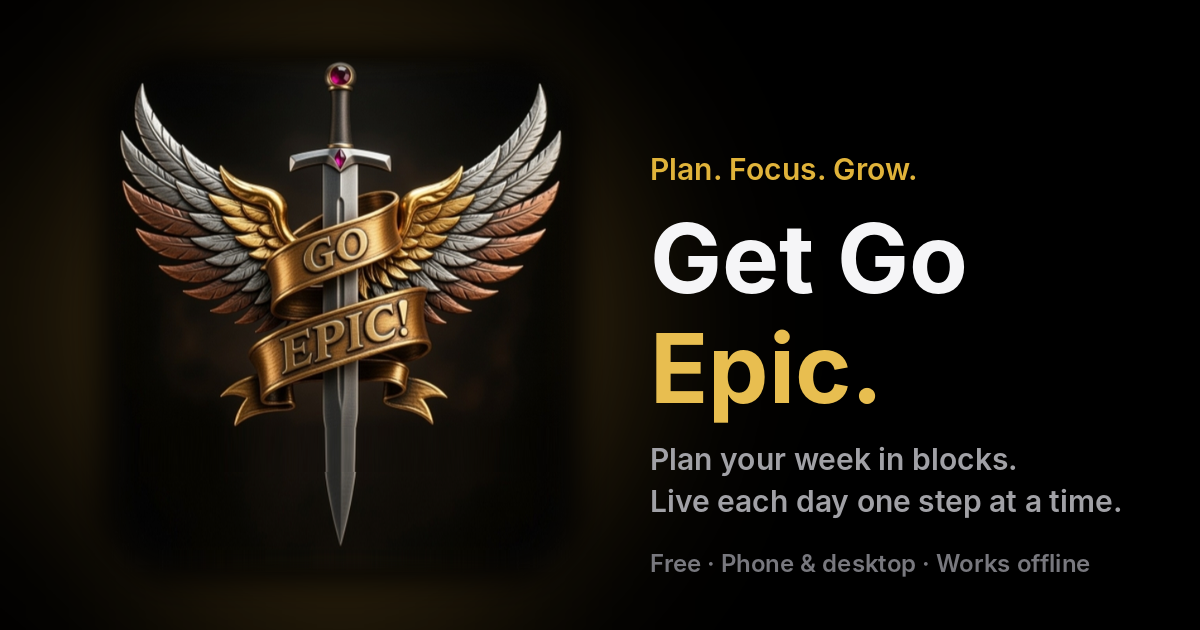
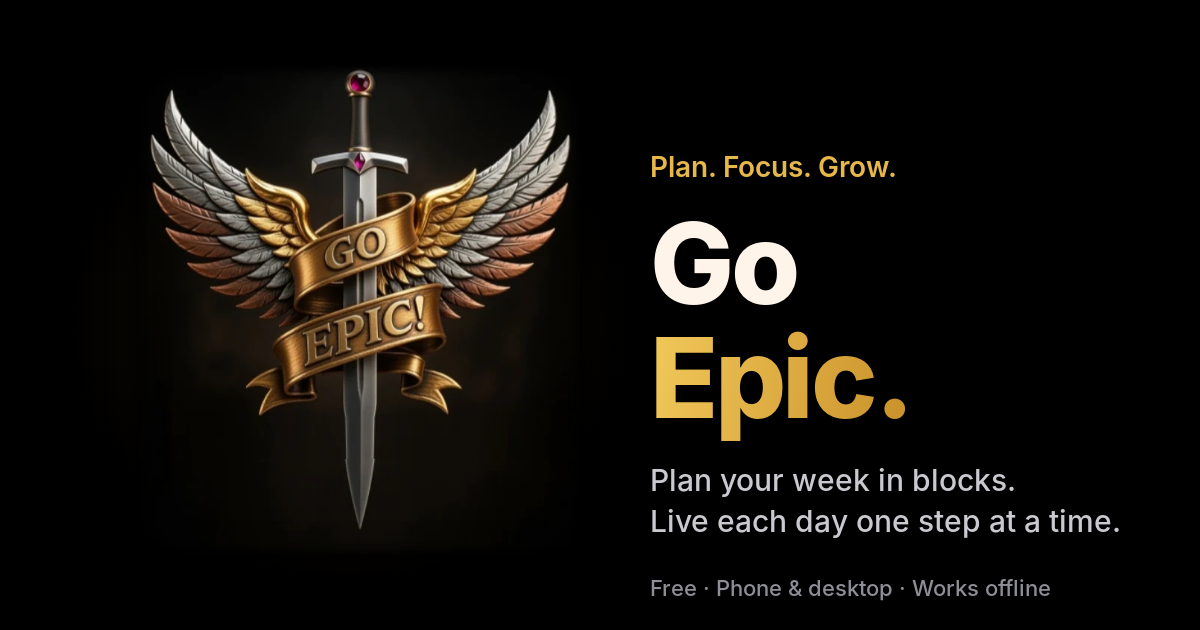
Landing page says Go Epic, in navy and gold - [2fzbdb]
Visitors only read the app's name: the headline and header are a two-colour
wordmark (Go navy, Epic gold), buttons say Download, the share image reads
Go Epic. Get Go Epic stays in the URL and the tab/search titles.

diff --git a/public/get/index.html b/public/get/index.html
@@ -7,7 +7,7 @@
   ES dictionary in the script below (browser language es-*, the EN/ES switch, or ?lang=es).
   The emblem (emblem.webp) is Gianni's winged-sword logo, with the blade lengthened.
 
-  ▶ DOWNLOAD LINK: every "Get Go Epic" button takes its address from GET_GO_EPIC_URL in the script at the
+  ▶ DOWNLOAD LINK: every download button takes its address from GET_GO_EPIC_URL in the script at the
     bottom of this file. It is a placeholder for now: put the real link there (one place) when it exists.
 -->
 <html lang="en">
@@ -36,7 +36,7 @@
   <meta property="og:image" content="https://go-epic.web.app/get/og-image.png" />
   <meta property="og:image:width" content="1200" />
   <meta property="og:image:height" content="630" />
-  <meta property="og:image:alt" content="The Go Epic emblem, a winged sword with a gold GO EPIC! ribbon, beside the words Get Go Epic" />
+  <meta property="og:image:alt" content="The Go Epic emblem, a winged sword with a gold GO EPIC! ribbon, beside the name Go Epic" />
   <meta property="og:locale" content="en_US" />
   <meta property="og:locale:alternate" content="es_ES" />
   <meta name="twitter:card" content="summary_large_image" />
@@ -132,6 +132,9 @@
     @keyframes rise { from { opacity: 0; transform: translateY(16px); filter: blur(6px); } }
     .kicker { font-size: 15px; font-weight: 600; color: var(--k, var(--mute)); letter-spacing: -.01em; }
     h1, h2 { font-size: clamp(30px, 8.2vw, 68px); line-height: 1.06; font-weight: 700; letter-spacing: -.03em; text-wrap: balance; }
+    /* The name: "Go" in the app's deep navy, "Epic" in the gold of the emblem's ribbon. */
+    .go { color: #101b42; }
+    .brand .epic { color: #8a5a12; }
     .gold { background: linear-gradient(100deg, #b8860b, #8a5a12); -webkit-background-clip: text; background-clip: text; color: transparent; }
     .lead { font-size: clamp(16px, 4.2vw, 21px); line-height: 1.4; color: var(--mute); max-width: 28em; text-wrap: pretty; transition: color .8s; }
     .fine { font-size: 13px; color: var(--mute); }
@@ -436,13 +439,13 @@
 </head>
 <body data-slide="0">
   <header class="top">
-    <span class="brand"><span class="tile"><img src="/get/emblem.webp" alt="" width="32" height="32" /></span>Go Epic</span>
+    <span class="brand" translate="no"><span class="tile"><img src="/get/emblem.webp" alt="" width="32" height="32" /></span><span><span class="go">Go</span> <span class="epic">Epic</span></span></span>
     <div class="lang" role="group" aria-label="Language / Idioma">
       <button type="button" data-lang="en" aria-pressed="true">EN</button>
       <button type="button" data-lang="es" aria-pressed="false">ES</button>
     </div>
     <!-- placeholder download link: set GET_GO_EPIC_URL in the script at the bottom -->
-    <a class="pill small js-get" href="#get-go-epic-link-coming-soon" data-i="get_short">Get Go Epic</a>
+    <a class="pill small js-get" href="#get-go-epic-link-coming-soon" data-i="get_short">Download</a>
   </header>
 
   <main class="stage" id="tour" aria-roledescription="carousel" aria-label="Go Epic tour">
@@ -450,10 +453,10 @@
       <div class="slides">
         <section class="slide on" aria-roledescription="slide" aria-label="1 / 8">
           <p class="kicker gold" data-i="k0">Plan. Focus. Grow.</p>
-          <h1>Get Go <span class="gold">Epic.</span></h1>
+          <h1 translate="no"><span class="go">Go</span> <span class="gold">Epic.</span></h1>
           <p class="lead" data-i="l0">Plan your week in blocks. Live each day one step at a time.</p>
           <!-- placeholder download link: set GET_GO_EPIC_URL in the script at the bottom -->
-          <a class="pill big js-get" href="#get-go-epic-link-coming-soon" data-i="get_long">Get Go Epic, it's free</a>
+          <a class="pill big js-get" href="#get-go-epic-link-coming-soon" data-i="get_long">Download Go Epic, it's free</a>
           <p class="fine" data-i="fine0">Free · Phone &amp; desktop · Works offline</p>
         </section>
         <section class="slide" aria-roledescription="slide" aria-label="2 / 8">
@@ -495,7 +498,7 @@
           <h2 data-i="h7">Your epic week starts now.</h2>
           <p class="lead" data-i="l7">Sign in with Google and add it to your home screen. Free, and it works offline.</p>
           <!-- placeholder download link: set GET_GO_EPIC_URL in the script at the bottom -->
-          <a class="pill big js-get" href="#get-go-epic-link-coming-soon" data-i="get_long2">Get Go Epic, it's free</a>
+          <a class="pill big js-get" href="#get-go-epic-link-coming-soon" data-i="get_long2">Download Go Epic, it's free</a>
           <p class="steps" data-i="steps"><b>iPhone:</b> Safari → Share → Add to Home Screen · <b>Android and computer:</b> Chrome → Install app</p>
         </section>
       </div>
@@ -662,7 +665,7 @@
   <script>
     /* ▶ THE DOWNLOAD LINK. A placeholder for now (it only shows a "coming soon" note).
        Put the real address here when it exists, e.g. 'https://go-epic.web.app/' or a store link:
-       every "Get Go Epic" button on the page (class js-get) takes it. */
+       every download button on the page (class js-get) takes it. */
     var GET_GO_EPIC_URL = '#get-go-epic-link-coming-soon';
 
     var ES = {

diff --git a/AGENTS.md b/AGENTS.md
@@ -50,7 +50,7 @@ users/{uid}/todos/{id}         Todo                                Capture's tas
 - `src/app/app.ts`: the shell. No top bar: a floating ☰ (`.nav-toggle`, top-left beside each page title, which is indented 52px) opens a drawer from the left (native `<dialog class="app-drawer">`; Esc, backdrop or any link closes it) with the brand, the user, Week board / Focus / Canvas / Progress / Capture / ⚙ Settings (a window, not a page), the language switch and Sign out, as in Epic Manager.
 - `src/app/core/theme.ts` (`parseTheme` pure, with a spec) + `src/app/pages/settings/settings.ts` (**Ajustes**, ⚙ in the ☰ menu): a **window over the current page**, never a page of its own (Gianni: going to a page and then looking for the Week again felt wrong; a page also showed the floating ✎ where no Capture belongs). The App opens it (`settingsOpen`) as the drawer closes; a theme picked shows at once behind its light backdrop, and ×, Done, Esc or the backdrop close it, leaving you where you were. It holds the **theme**, kept on this device (`go-epic-theme`; index.html applies it before the app starts, so the page never flashes the other look; `ThemeService` keeps `<html data-theme>`, the meta theme-color, the **manifest link** and the stored choice in step). Each theme has its own manifest (`manifestFor`: Epic `manifest.webmanifest`, the others `public/manifest-<theme>.webmanifest`, identical but for `theme_color`/`background_color` = its `THEME_BAR` colour; keep them in step when a theme or the manifest changes), so the installed app's colours, **Android's bottom bar** among them (Gianni: three-button navigation stayed navy), follow the theme once Chrome updates the app (it rechecks the manifest at most daily and rebuilds the app when the phone is charging on Wi-Fi, usually within a day or two). **Epic** (the default, the palette below); **Pink Pop** (light) and **Petal Punk** (dark), Gianni's favourites from Epic Manager (its `Pro_PinkPop` / `Pro_PetalPunk`): colourful palettes, not grey (pastel cards, gold Done and the Canvas colours stay): Pink Pop soft pink pages, blush days and porcelain blocks; Petal Punk deep plum nights with plum-velvet blocks and a gold now-line, red with the Red time line box), and the orange pair **Squeeze Me** (light: peach pages, apricot days, linen blocks, terracotta buttons) and **Smoked Citrus** (dark: smoky charcoal; its blocks are warm smoked stone `#47433e`→`#3b3834` with an ember edge, a thin tangerine light on top and a burnt-orange lip, since Gianni found tangerine blocks too loud: orange stays the accent of the day border, buttons and free time; a citrus-lime now-line, red with the box), from its `Pro_SqueezeMe` / `Pro_SmokedCitrus`, plus **Sunburnt Toast** (`sunburnt`, light golden orange: warm toast pages, oat blocks, burnt-sienna buttons; its `Pro_SunburntToast`). **None of them is loud** (Gianni: pretty, not flashy; a panel decided): the blocks of Pink Pop, Petal Punk, Squeeze Me and Sunburnt are a calm surface (porcelain, plum velvet, linen, oat) whose only colour is a thin border in the theme's tone (`--block-edge`), and their accents are muted (dusty rose, soft rose, terracotta, burnt sienna); on the dark blocks (Petal Punk, Smoked Citrus) the fields are dark, the free-time stripes, end handle and summary dash light, and the light cards keep their dark ink; all five share the structural rules with the grey themes (`html:is(office, graphite, pinkpop, petalpunk, squeezeme, smokedcitrus, sunburnt)`: lips and shadows, veils, accent inks `--g-on-ink`, tints `--g-tint`, Canvas captions); and two **grey themes**: **Office** (Gianni: nothing that draws attention on a work screen; light greys, no white anywhere, the check boxes grey inside) and **Graphite** (Gianni: dark but easy on the eyes; deep greys, never black, soft grey ink instead of white, so the contrast stays gentle). Each grey theme sets the colour tokens and its `--g-*` surfaces (`html[data-theme='office']`, `html[data-theme='graphite']` in styles.css); the rules after them are shared (`html:is([data-theme='office'], [data-theme='graphite'])`): `main` and every `dialog` are drawn in grayscale, so pastels, papers, badges and Canvas objects become greys; cards are one grey a shade apart from the card above (`--g-card`/`--g-card-2`), done cards a pressed grey; in Graphite everything written on a card, note or object reads in the soft light ink; Canvas objects get grey surfaces too (Feature darkest, then Story, then Activity), and so does every other surface with its own light background in Epic (finished and inactive items, Focus cards, the new-activity header, small controls), so the theme's ink always reads on it. A light surface against dark ink (option lists, the selected Copy/Move) uses `--light`, never `--ink`. The Ajustes window itself is not grayed (`dialog.settings-window`), so each theme's little preview keeps its colours; on the Week board the page is not grayed as a whole either, only everything around the now-line (`.board > :not(.week)`, `.task > :not(.now-line)`…), so the line keeps its colour. A new screen or colour needs a look in Office too. The now-line's colour is `--now`: red in Epic, a quiet slate grey in Office and Graphite, red again when Ajustes' **Red time line** box is ticked (`ThemeService.redLine`, `go-epic-red-line`, `<html data-red-line>`, also applied by index.html). A tap on the line's time badge (a button with a 40px hit area) centres the line on screen at once (`centreOnNow`), without marking the card; while arranging it takes a **double tap** (`badgeTap`, 400 ms), and nothing else scrolls the board then (Gianni): the line is never the browser's scroll anchor (`overflow-anchor: none`), since as it moved down a card the page followed it.
 - `src/app/shared/`: `ThemeFan` (the Week board's themes button), `WhereCard` (the Where card that is also the chooser: `whereOptions`/`pickWhere`/`whereOf` in library.model) and `ColorWindow` (the small colour window that closes on a choice), used by the Week's activity details.
-- `public/get/index.html` (+ `og-image.png`, `emblem.webp`, `emblem-48.png`, `emblem-180.png`): **Get Go Epic**, the promotional landing page at `/get/` (Gianni: the page search engines send people to, to download the app). A plain static page, not part of the Angular app (no framework, no Firebase; CSS and script inline). **One screen, Apple-style** (Gianni: the long page was too crowded and heavy, and no blue background): an off-white page, clean system type, black pill buttons, and a **carousel** of eight slides stepped with **Next / Back** (also the dots, a swipe, or ← →): the emblem (a large dark app-icon tile on the same light page: no black slide, Gianni disliked the jump from black to white), Week board, Focus, Canvas, Progress, Capture, Themes, and a home screen where the app lands. The words sit on one side (above on phones) and a CSS phone drawn in the app's own look on the other; **every slide plays its own small motion** when it appears (blocks drop and a card turns gold, the countdown drains, capsules fly into a Story, streak dots light up and count, a task is typed and drops in, the screen cycles through the eight themes, the icon lands with a halo), all off under `prefers-reduced-motion`. **The phone is as big as the room allows** (Gianni: it was too small): only the shown slide takes room (the others are absolutely placed), and `fit()` scales the 320×660 phone to the rest, up to 1.45×, gliding between slides (`--s` is a registered property). Without JavaScript every slide is shown in a column. The emblem is Gianni's winged-sword logo (from his screenshot, blade lengthened); the installed app's icon is still `public/icons/`. English in the HTML for search engines, Spanish from its `ES` dictionary (browser language `es-*`, the EN/ES switch, or `?lang=es`); "Get Go Epic." stays the same in both. **Every download button takes its address from `GET_GO_EPIC_URL`** in its script, a placeholder for now (a `#…` link only shows a "coming soon" note); put the real link there. `ngsw-config.json` keeps `/get` and `/get/**` out of `navigationUrls`, so an installed app's service worker never answers the landing page with the app; `public/robots.txt` and `public/sitemap.xml` list it for search engines. Its texts promise only what the app does (no push notifications, no store listing yet).
+- `public/get/index.html` (+ `og-image.png`, `emblem.webp`, `emblem-48.png`, `emblem-180.png`): **Get Go Epic**, the promotional landing page at `/get/` (Gianni: the page search engines send people to, to download the app). A plain static page, not part of the Angular app (no framework, no Firebase; CSS and script inline). **One screen, Apple-style** (Gianni: the long page was too crowded and heavy, and no blue background): an off-white page, clean system type, black pill buttons, and a **carousel** of eight slides stepped with **Next / Back** (also the dots, a swipe, or ← →): the emblem (a large dark app-icon tile on the same light page: no black slide, Gianni disliked the jump from black to white), Week board, Focus, Canvas, Progress, Capture, Themes, and a home screen where the app lands. The words sit on one side (above on phones) and a CSS phone drawn in the app's own look on the other; **every slide plays its own small motion** when it appears (blocks drop and a card turns gold, the countdown drains, capsules fly into a Story, streak dots light up and count, a task is typed and drops in, the screen cycles through the eight themes, the icon lands with a halo), all off under `prefers-reduced-motion`. **The phone is as big as the room allows** (Gianni: it was too small): only the shown slide takes room (the others are absolutely placed), and `fit()` scales the 320×660 phone to the rest, up to 1.45×, gliding between slides (`--s` is a registered property). Without JavaScript every slide is shown in a column. The emblem is Gianni's winged-sword logo (from his screenshot, blade lengthened); the installed app's icon is still `public/icons/`. English in the HTML for search engines, Spanish from its `ES` dictionary (browser language `es-*`, the EN/ES switch, or `?lang=es`); **Visitors only ever read "Go Epic"**, the app's name (Gianni: "Get Go Epic" is just how you reach the page, so it stays only in the URL, the browser tab and the search/share titles): the headline and the header carry it as a two-colour wordmark, chosen by a panel, "Go" in the app's deep navy `#101b42` and "Epic" in the gold of the emblem's ribbon (the gold gradient in the headline, a solid `#8a5a12` in the small header for contrast; on the dark share image "Go" is cream), and the buttons say "Download" / "Download Go Epic, it's free". **Every download button takes its address from `GET_GO_EPIC_URL`** in its script, a placeholder for now (a `#…` link only shows a "coming soon" note); put the real link there. `ngsw-config.json` keeps `/get` and `/get/**` out of `navigationUrls`, so an installed app's service worker never answers the landing page with the app; `public/robots.txt` and `public/sitemap.xml` list it for search engines. Its texts promise only what the app does (no push notifications, no store listing yet).
 - `src/styles.css`: all styles (global, Epic Manager palette: navy `#101b42`, cream `#fff4e9`, plum days, yellow jelly blocks, pastel cards, pink `#f4a8b7` primary, teal `#76e0d0` focus).
 
 ## Conventions

diff --git a/CLAUDE.md b/CLAUDE.md
@@ -50,7 +50,7 @@ users/{uid}/todos/{id}         Todo                                Capture's tas
 - `src/app/app.ts`: the shell. No top bar: a floating ☰ (`.nav-toggle`, top-left beside each page title, which is indented 52px) opens a drawer from the left (native `<dialog class="app-drawer">`; Esc, backdrop or any link closes it) with the brand, the user, Week board / Focus / Canvas / Progress / Capture / ⚙ Settings (a window, not a page), the language switch and Sign out, as in Epic Manager.
 - `src/app/core/theme.ts` (`parseTheme` pure, with a spec) + `src/app/pages/settings/settings.ts` (**Ajustes**, ⚙ in the ☰ menu): a **window over the current page**, never a page of its own (Gianni: going to a page and then looking for the Week again felt wrong; a page also showed the floating ✎ where no Capture belongs). The App opens it (`settingsOpen`) as the drawer closes; a theme picked shows at once behind its light backdrop, and ×, Done, Esc or the backdrop close it, leaving you where you were. It holds the **theme**, kept on this device (`go-epic-theme`; index.html applies it before the app starts, so the page never flashes the other look; `ThemeService` keeps `<html data-theme>`, the meta theme-color, the **manifest link** and the stored choice in step). Each theme has its own manifest (`manifestFor`: Epic `manifest.webmanifest`, the others `public/manifest-<theme>.webmanifest`, identical but for `theme_color`/`background_color` = its `THEME_BAR` colour; keep them in step when a theme or the manifest changes), so the installed app's colours, **Android's bottom bar** among them (Gianni: three-button navigation stayed navy), follow the theme once Chrome updates the app (it rechecks the manifest at most daily and rebuilds the app when the phone is charging on Wi-Fi, usually within a day or two). **Epic** (the default, the palette below); **Pink Pop** (light) and **Petal Punk** (dark), Gianni's favourites from Epic Manager (its `Pro_PinkPop` / `Pro_PetalPunk`): colourful palettes, not grey (pastel cards, gold Done and the Canvas colours stay): Pink Pop soft pink pages, blush days and porcelain blocks; Petal Punk deep plum nights with plum-velvet blocks and a gold now-line, red with the Red time line box), and the orange pair **Squeeze Me** (light: peach pages, apricot days, linen blocks, terracotta buttons) and **Smoked Citrus** (dark: smoky charcoal; its blocks are warm smoked stone `#47433e`→`#3b3834` with an ember edge, a thin tangerine light on top and a burnt-orange lip, since Gianni found tangerine blocks too loud: orange stays the accent of the day border, buttons and free time; a citrus-lime now-line, red with the box), from its `Pro_SqueezeMe` / `Pro_SmokedCitrus`, plus **Sunburnt Toast** (`sunburnt`, light golden orange: warm toast pages, oat blocks, burnt-sienna buttons; its `Pro_SunburntToast`). **None of them is loud** (Gianni: pretty, not flashy; a panel decided): the blocks of Pink Pop, Petal Punk, Squeeze Me and Sunburnt are a calm surface (porcelain, plum velvet, linen, oat) whose only colour is a thin border in the theme's tone (`--block-edge`), and their accents are muted (dusty rose, soft rose, terracotta, burnt sienna); on the dark blocks (Petal Punk, Smoked Citrus) the fields are dark, the free-time stripes, end handle and summary dash light, and the light cards keep their dark ink; all five share the structural rules with the grey themes (`html:is(office, graphite, pinkpop, petalpunk, squeezeme, smokedcitrus, sunburnt)`: lips and shadows, veils, accent inks `--g-on-ink`, tints `--g-tint`, Canvas captions); and two **grey themes**: **Office** (Gianni: nothing that draws attention on a work screen; light greys, no white anywhere, the check boxes grey inside) and **Graphite** (Gianni: dark but easy on the eyes; deep greys, never black, soft grey ink instead of white, so the contrast stays gentle). Each grey theme sets the colour tokens and its `--g-*` surfaces (`html[data-theme='office']`, `html[data-theme='graphite']` in styles.css); the rules after them are shared (`html:is([data-theme='office'], [data-theme='graphite'])`): `main` and every `dialog` are drawn in grayscale, so pastels, papers, badges and Canvas objects become greys; cards are one grey a shade apart from the card above (`--g-card`/`--g-card-2`), done cards a pressed grey; in Graphite everything written on a card, note or object reads in the soft light ink; Canvas objects get grey surfaces too (Feature darkest, then Story, then Activity), and so does every other surface with its own light background in Epic (finished and inactive items, Focus cards, the new-activity header, small controls), so the theme's ink always reads on it. A light surface against dark ink (option lists, the selected Copy/Move) uses `--light`, never `--ink`. The Ajustes window itself is not grayed (`dialog.settings-window`), so each theme's little preview keeps its colours; on the Week board the page is not grayed as a whole either, only everything around the now-line (`.board > :not(.week)`, `.task > :not(.now-line)`…), so the line keeps its colour. A new screen or colour needs a look in Office too. The now-line's colour is `--now`: red in Epic, a quiet slate grey in Office and Graphite, red again when Ajustes' **Red time line** box is ticked (`ThemeService.redLine`, `go-epic-red-line`, `<html data-red-line>`, also applied by index.html). A tap on the line's time badge (a button with a 40px hit area) centres the line on screen at once (`centreOnNow`), without marking the card; while arranging it takes a **double tap** (`badgeTap`, 400 ms), and nothing else scrolls the board then (Gianni): the line is never the browser's scroll anchor (`overflow-anchor: none`), since as it moved down a card the page followed it.
 - `src/app/shared/`: `ThemeFan` (the Week board's themes button), `WhereCard` (the Where card that is also the chooser: `whereOptions`/`pickWhere`/`whereOf` in library.model) and `ColorWindow` (the small colour window that closes on a choice), used by the Week's activity details.
-- `public/get/index.html` (+ `og-image.png`, `emblem.webp`, `emblem-48.png`, `emblem-180.png`): **Get Go Epic**, the promotional landing page at `/get/` (Gianni: the page search engines send people to, to download the app). A plain static page, not part of the Angular app (no framework, no Firebase; CSS and script inline). **One screen, Apple-style** (Gianni: the long page was too crowded and heavy, and no blue background): an off-white page, clean system type, black pill buttons, and a **carousel** of eight slides stepped with **Next / Back** (also the dots, a swipe, or ← →): the emblem (a large dark app-icon tile on the same light page: no black slide, Gianni disliked the jump from black to white), Week board, Focus, Canvas, Progress, Capture, Themes, and a home screen where the app lands. The words sit on one side (above on phones) and a CSS phone drawn in the app's own look on the other; **every slide plays its own small motion** when it appears (blocks drop and a card turns gold, the countdown drains, capsules fly into a Story, streak dots light up and count, a task is typed and drops in, the screen cycles through the eight themes, the icon lands with a halo), all off under `prefers-reduced-motion`. **The phone is as big as the room allows** (Gianni: it was too small): only the shown slide takes room (the others are absolutely placed), and `fit()` scales the 320×660 phone to the rest, up to 1.45×, gliding between slides (`--s` is a registered property). Without JavaScript every slide is shown in a column. The emblem is Gianni's winged-sword logo (from his screenshot, blade lengthened); the installed app's icon is still `public/icons/`. English in the HTML for search engines, Spanish from its `ES` dictionary (browser language `es-*`, the EN/ES switch, or `?lang=es`); "Get Go Epic." stays the same in both. **Every download button takes its address from `GET_GO_EPIC_URL`** in its script, a placeholder for now (a `#…` link only shows a "coming soon" note); put the real link there. `ngsw-config.json` keeps `/get` and `/get/**` out of `navigationUrls`, so an installed app's service worker never answers the landing page with the app; `public/robots.txt` and `public/sitemap.xml` list it for search engines. Its texts promise only what the app does (no push notifications, no store listing yet).
+- `public/get/index.html` (+ `og-image.png`, `emblem.webp`, `emblem-48.png`, `emblem-180.png`): **Get Go Epic**, the promotional landing page at `/get/` (Gianni: the page search engines send people to, to download the app). A plain static page, not part of the Angular app (no framework, no Firebase; CSS and script inline). **One screen, Apple-style** (Gianni: the long page was too crowded and heavy, and no blue background): an off-white page, clean system type, black pill buttons, and a **carousel** of eight slides stepped with **Next / Back** (also the dots, a swipe, or ← →): the emblem (a large dark app-icon tile on the same light page: no black slide, Gianni disliked the jump from black to white), Week board, Focus, Canvas, Progress, Capture, Themes, and a home screen where the app lands. The words sit on one side (above on phones) and a CSS phone drawn in the app's own look on the other; **every slide plays its own small motion** when it appears (blocks drop and a card turns gold, the countdown drains, capsules fly into a Story, streak dots light up and count, a task is typed and drops in, the screen cycles through the eight themes, the icon lands with a halo), all off under `prefers-reduced-motion`. **The phone is as big as the room allows** (Gianni: it was too small): only the shown slide takes room (the others are absolutely placed), and `fit()` scales the 320×660 phone to the rest, up to 1.45×, gliding between slides (`--s` is a registered property). Without JavaScript every slide is shown in a column. The emblem is Gianni's winged-sword logo (from his screenshot, blade lengthened); the installed app's icon is still `public/icons/`. English in the HTML for search engines, Spanish from its `ES` dictionary (browser language `es-*`, the EN/ES switch, or `?lang=es`); **Visitors only ever read "Go Epic"**, the app's name (Gianni: "Get Go Epic" is just how you reach the page, so it stays only in the URL, the browser tab and the search/share titles): the headline and the header carry it as a two-colour wordmark, chosen by a panel, "Go" in the app's deep navy `#101b42` and "Epic" in the gold of the emblem's ribbon (the gold gradient in the headline, a solid `#8a5a12` in the small header for contrast; on the dark share image "Go" is cream), and the buttons say "Download" / "Download Go Epic, it's free". **Every download button takes its address from `GET_GO_EPIC_URL`** in its script, a placeholder for now (a `#…` link only shows a "coming soon" note); put the real link there. `ngsw-config.json` keeps `/get` and `/get/**` out of `navigationUrls`, so an installed app's service worker never answers the landing page with the app; `public/robots.txt` and `public/sitemap.xml` list it for search engines. Its texts promise only what the app does (no push notifications, no store listing yet).
 - `src/styles.css`: all styles (global, Epic Manager palette: navy `#101b42`, cream `#fff4e9`, plum days, yellow jelly blocks, pastel cards, pink `#f4a8b7` primary, teal `#76e0d0` focus).
 
 ## Conventions
